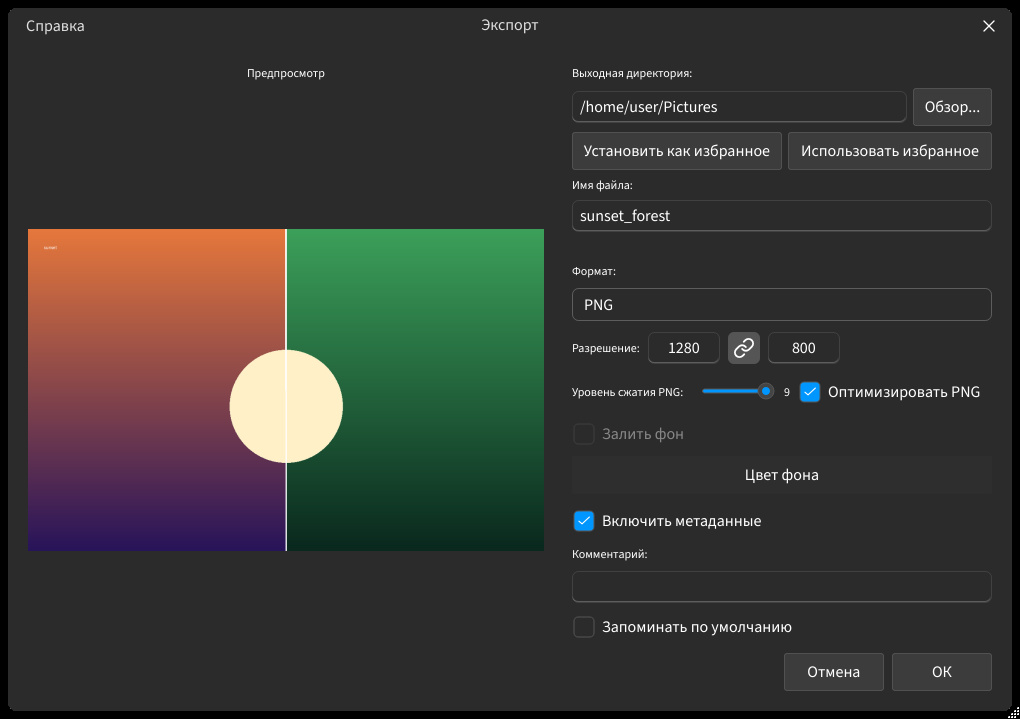
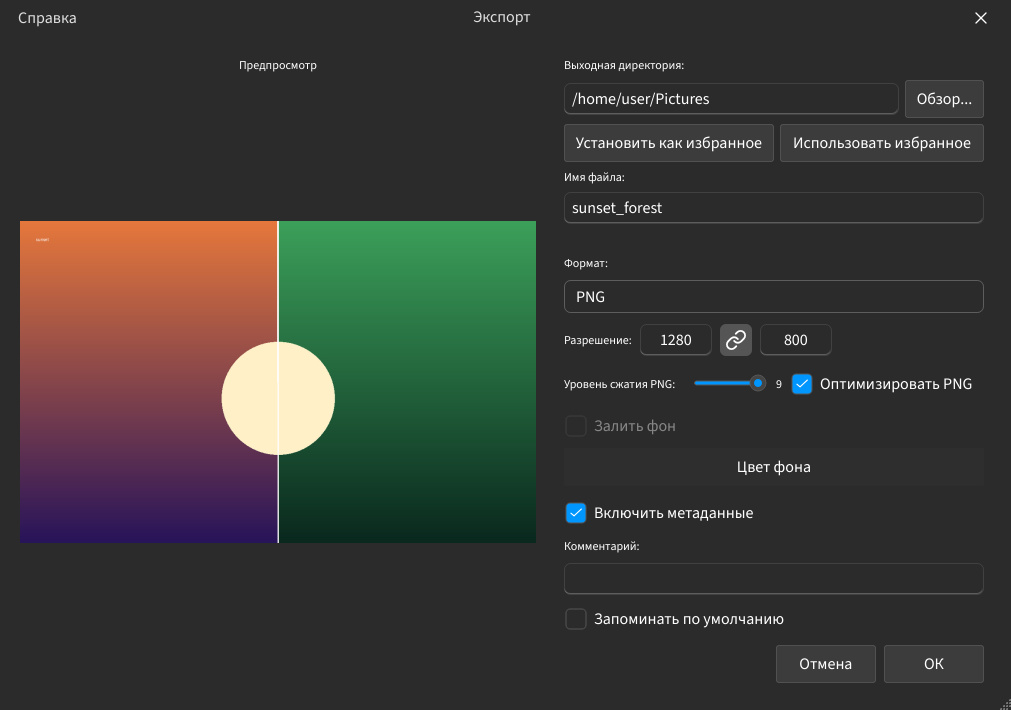
fix(help-figures): a JPEG install composites the window margin instead of blackening it [help-figure-jpeg-alpha]
A top-level grab is RGBA and its CSD shadow/corner band is fully transparent
(measured: 27588 px, 3.8% of the export-dialog frame). The .jpg install did
image.convert('RGB'), which DISCARDS alpha rather than compositing, so every
corner and all four edges came out black - on a light theme that read as a
rendering defect around the dialog.

Now the transparent margin is cropped (it is not window content) and the
residual rounded-corner pixels are composited onto the window's own edge
colour, sampled from the first opaque pixel.

Red-before: test_jpeg_install_composites_the_transparent_window_margin fails on
the old install; green after. Re-captured the affected cells (export-dialog 8
jpg cells, image-properties 8 png cells: corners 245/43 per theme, no black).

Known separate item (not this commit): a @screen capture of a rounded dialog
composites onto the X root window, so its margin is black in the grab itself
(video-export: 3.18% dark pixels in a 12px band) - alpha flattening cannot fix
that one.

diff --git a/src/devtools/help_live.py b/src/devtools/help_live.py
@@ -935,6 +935,52 @@ def install_target(figure: LiveFigure, locale: str, theme: str) -> Path:
     return REPO_ROOT / install_destination(figure, locale, theme)
 
 
+def _edge_background(image):
+    """Colour of the window just inside a transparent grab margin.
+
+    A top-level grab is RGBA and its CSD shadow/corner band is fully
+    transparent. The first opaque pixel of the top row (then of the left
+    column) is the dialog's own edge colour — compositing onto it keeps a
+    rounded corner looking like the window, not like a sticker.
+    """
+    width, height = image.size
+    for x in range(width):
+        pixel = image.getpixel((x, 0))
+        if pixel[3] == 255:
+            return pixel[:3]
+    for y in range(height):
+        pixel = image.getpixel((0, y))
+        if pixel[3] == 255:
+            return pixel[:3]
+    return (255, 255, 255)
+
+
+def _flatten_alpha(image):
+    """Crop a grab's transparent margin and composite the rest onto its edge.
+
+    ``Image.convert("RGB")`` drops alpha instead of compositing, so a CSD
+    shadow band became a black frame around the dialog — measured on
+    ``ru/light/export_dialog.jpg``: 27588 fully transparent pixels (3.8% of the
+    frame), black at every corner and along all four edges. The figure looked
+    like a rendering defect on a light theme. Crop to the opaque bbox (that band
+    is not part of the window) and composite the residual corner pixels onto the
+    window's own edge colour.
+    """
+    from PIL import Image
+
+    if image.mode != "RGBA":
+        return image
+    bbox = image.getchannel("A").getbbox()
+    if bbox is None:
+        return image
+    image = image.crop(bbox)
+    if image.getchannel("A").getextrema()[0] == 255:
+        return image.convert("RGB")
+    background = Image.new("RGB", image.size, _edge_background(image))
+    background.paste(image, (0, 0), image)
+    return background
+
+
 def crop_and_install(
     screenshot: Path, destination: Path, crop: tuple[int, int, int, int] | None
 ) -> Path:
@@ -957,7 +1003,9 @@ def crop_and_install(
             image = image.crop((left, top, right, bottom))
         destination.parent.mkdir(parents=True, exist_ok=True)
         if destination.suffix.lower() in (".jpg", ".jpeg"):
-            image.convert("RGB").save(destination, format="JPEG", quality=95, subsampling=0)
+            _flatten_alpha(image).save(
+                destination, format="JPEG", quality=95, subsampling=0
+            )
         else:
             image.save(destination)
     return destination

diff --git a/tests/devtools/test_help_live.py b/tests/devtools/test_help_live.py
@@ -186,3 +186,33 @@ def test_jpeg_destination_is_converted(tmp_path):
     help_live.crop_and_install(shot, out, None)
     with Image.open(out) as image:
         assert image.format == "JPEG"
+
+
+def test_jpeg_install_composites_the_transparent_window_margin(tmp_path):
+    """RED-BEFORE: alpha was dropped, so the CSD shadow band became black.
+
+    A top-level grab is RGBA with a fully transparent margin (measured on
+    ``ru/light/export_dialog.jpg``: 27588 transparent pixels, black at every
+    corner and along all four edges). ``convert("RGB")`` does not composite —
+    it discards alpha and leaves black, which reads as a rendering defect on a
+    light theme. The margin is also not part of the window, so it is cropped.
+    """
+    from PIL import Image
+
+    source = tmp_path / "shot.png"
+    grab = Image.new("RGBA", (60, 40), (0, 0, 0, 0))
+    window = Image.new("RGBA", (50, 30), (250, 250, 250, 255))
+    grab.paste(window, (5, 5))
+    for x, y in ((5, 5), (6, 5), (5, 6)):  # a rounded corner stays transparent
+        grab.putpixel((x, y), (0, 0, 0, 0))
+    grab.save(source)
+
+    destination = tmp_path / "figure.jpg"
+    help_live.crop_and_install(source, destination, None)
+
+    with Image.open(destination) as image:
+        assert image.size == (50, 30), "the transparent margin is not the window"
+        out = image.convert("RGB")
+    edge = [out.getpixel((x, 0)) for x in range(out.width)]
+    edge += [out.getpixel((0, y)) for y in range(out.height)]
+    assert all(sum(pixel) > 600 for pixel in edge), edge[:4]
